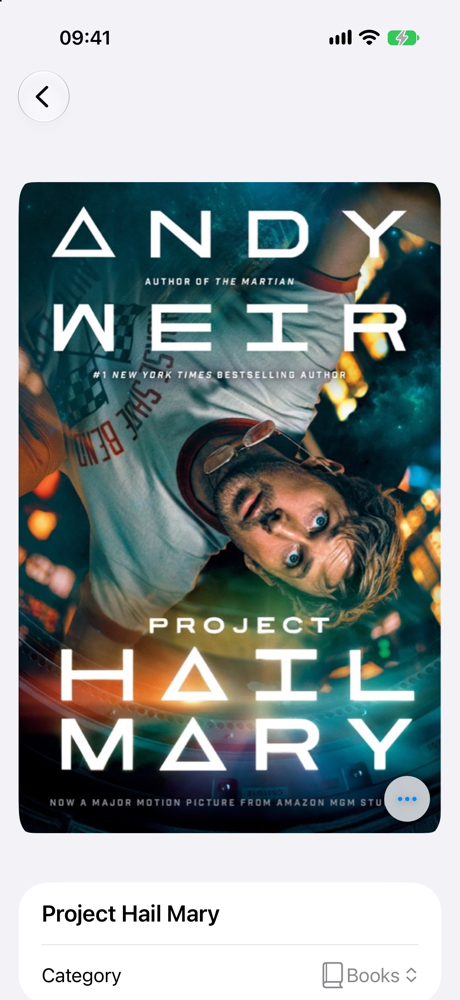
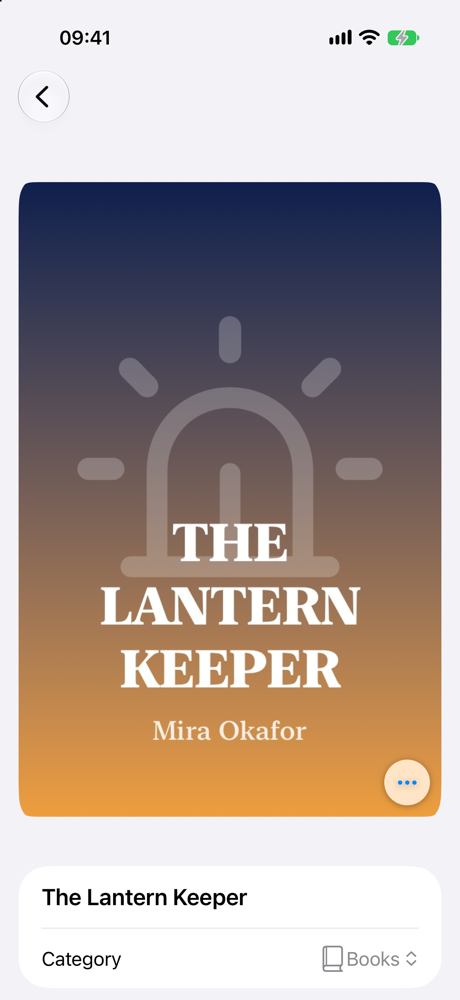
Use made-up sample bookmarks for README screenshots
-seedSamples now creates six fictional bookmarks with covers drawn in the
app, so seeding works offline and the screenshots show no real artwork.
It also skips the cover upgrades meant for older libraries, which would
otherwise clear the drawn covers on a fresh install.

diff --git a/DragonLair/SampleData.swift b/DragonLair/SampleData.swift
@@ -2,27 +2,106 @@
 import SwiftData
 import SwiftUI
 
-/// Launch with `-seedSamples` to fill an empty library with a few bookmarks for UI testing.
+/// Launch with `-seedSamples` to fill an empty library with a few bookmarks for UI testing and
+/// README screenshots. The items are made up and their covers are drawn here, so seeding needs
+/// no network and shows no real artwork.
 struct SampleData: ViewModifier {
     @Environment(\.modelContext) private var context
+
+    private struct Sample {
+        var category: BookmarkCategory
+        var title: String
+        var creator = ""
+        var year = ""
+        var summary: String
+        var url = ""
+        var location = ""
+        var tags: [String]
+        var symbol: String
+        var colors: [Color]
+    }
+
+    private let samples: [Sample] = [
+        Sample(category: .book, title: "The Lantern Keeper", creator: "Mira Okafor", year: "2024",
+               summary: "A lighthouse keeper finds letters from the future washed ashore.",
+               tags: ["fantasy", "mystery"], symbol: "light.beacon.max",
+               colors: [Color(red: 0.06, green: 0.12, blue: 0.30), Color(red: 0.93, green: 0.62, blue: 0.24)]),
+        Sample(category: .manhwa, title: "Ashen Crown", creator: "Han Seo-yeon", year: "2022",
+               summary: "A disgraced knight returns to reclaim a burned kingdom.",
+               tags: ["action", "fantasy"], symbol: "crown.fill",
+               colors: [Color(red: 0.20, green: 0.05, blue: 0.25), Color(red: 0.85, green: 0.20, blue: 0.25)]),
+        Sample(category: .movie, title: "Salt & Static", creator: "Jonas Velde", year: "2025",
+               summary: "Two radio operators on opposite coasts share one frequency.",
+               tags: ["drama"], symbol: "antenna.radiowaves.left.and.right",
+               colors: [Color(red: 0.02, green: 0.35, blue: 0.40), Color(red: 0.98, green: 0.55, blue: 0.35)]),
+        Sample(category: .place, title: "Moss & Kettle", summary: "Tea house with a tiny moss garden.",
+               location: "Kyoto, Japan", tags: ["tea"], symbol: "leaf.fill",
+               colors: [Color(red: 0.12, green: 0.30, blue: 0.18), Color(red: 0.62, green: 0.78, blue: 0.45)]),
+        Sample(category: .product, title: "Pour-Over Set", creator: "Hearth & Clay",
+               summary: "Stoneware dripper and carafe.", tags: ["coffee"], symbol: "cup.and.saucer.fill",
+               colors: [Color(red: 0.36, green: 0.22, blue: 0.14), Color(red: 0.90, green: 0.80, blue: 0.66)]),
+        Sample(category: .site, title: "Pixel Garden", summary: "Draw tiny pixel-art plants and share them.",
+               url: "pixelgarden.example", tags: ["art", "tool"], symbol: "square.grid.3x3.fill",
+               colors: [Color(red: 0.25, green: 0.20, blue: 0.55), Color(red: 0.40, green: 0.85, blue: 0.70)]),
+    ]
 
     func body(content: Content) -> some View {
         content.task {
             guard ProcessInfo.processInfo.arguments.contains("-seedSamples"),
                   (try? context.fetchCount(FetchDescriptor<Bookmark>())) == 0 else { return }
-            let samples = [
-                Bookmark(category: .manhwa, title: "Solo Leveling", creator: "Chugong", year: "2018",
-                         summary: "A weak hunter gains the power to level up.", tags: ["action", "fantasy"]),
-                Bookmark(category: .book, title: "Project Hail Mary", creator: "Andy Weir", year: "2021",
-                         summary: "A lone astronaut must save Earth.", tags: ["sci-fi"]),
-                Bookmark(category: .movie, title: "Past Lives", creator: "Celine Song", year: "2023",
-                         summary: "Childhood friends reconnect decades later.", tags: ["drama"]),
-                Bookmark(category: .place, title: "Café Kitsuné",
-                         summary: "Coffee shop by the Palais-Royal gardens.", location: "Paris, France", tags: ["coffee"]),
-                Bookmark(category: .site, title: "Excalidraw",
-                         summary: "Hand-drawn style whiteboard.", url: "excalidraw.com", tags: ["tool"]),
-            ]
-            samples.forEach(context.insert)
+            // A fresh install would otherwise run the cover upgrades meant for older libraries,
+            // which clear some covers and search again.
+            AppSettings.coverSourcesVersion = CoverArt.sourcesVersion
+            for (index, sample) in samples.enumerated() {
+                let bookmark = Bookmark(category: sample.category, title: sample.title, creator: sample.creator,
+                                        year: sample.year, summary: sample.summary, url: sample.url,
+                                        location: sample.location, tags: sample.tags)
+                bookmark.cover = Self.cover(for: sample)
+                // Nothing to look up: the cover is drawn and the titles are already English.
+                bookmark.coverLookedUp = true
+                bookmark.englishChecked = true
+                bookmark.englishVerified = true
+                // Newest first in the library, in the order listed above.
+                bookmark.createdAt = .now.addingTimeInterval(-Double(index) * 3600)
+                context.insert(bookmark)
+            }
+        }
+    }
+
+    @MainActor
+    private static func cover(for sample: Sample) -> Data? {
+        let renderer = ImageRenderer(content: SampleCover(sample: sample))
+        renderer.scale = 3
+        return renderer.uiImage?.jpegData(compressionQuality: 0.85)
+    }
+
+    private struct SampleCover: View {
+        let sample: Sample
+
+        var body: some View {
+            ZStack {
+                LinearGradient(colors: sample.colors, startPoint: .top, endPoint: .bottom)
+                Image(systemName: sample.symbol)
+                    .font(.system(size: 150))
+                    .foregroundStyle(.white.opacity(0.22))
+                    .offset(y: -30)
+                VStack(spacing: 8) {
+                    Spacer()
+                    Text(sample.title.uppercased())
+                        .font(.system(size: 30, weight: .heavy, design: .serif))
+                        .multilineTextAlignment(.center)
+                        .minimumScaleFactor(0.6)
+                    if !sample.creator.isEmpty {
+                        Text(sample.creator)
+                            .font(.system(size: 15, weight: .medium, design: .serif))
+                            .opacity(0.85)
+                    }
+                }
+                .foregroundStyle(.white)
+                .padding(24)
+                .padding(.bottom, 16)
+            }
+            .frame(width: 240, height: 360)
         }
     }
 }

diff --git a/README.md b/README.md
@@ -190,7 +190,7 @@ xcodegen generate
 
 Debug builds accept two launch arguments:
 
-- `-seedSamples` fills an empty library with a few sample bookmarks.
+- `-seedSamples` fills an empty library with a few made-up bookmarks with drawn covers. The README screenshots use it.
 - `-stubAI` answers imports with made-up bookmarks after a few seconds, so you can try importing without an API key or network.
 
 The app logs to the system log under the subsystem `com.lirriel.dragonlair`, with the categories `import`, `covers`, `photos`, `keychain` and `ui`. View them in Xcode's console or Console.app. Release builds hide titles and site addresses in these logs.
